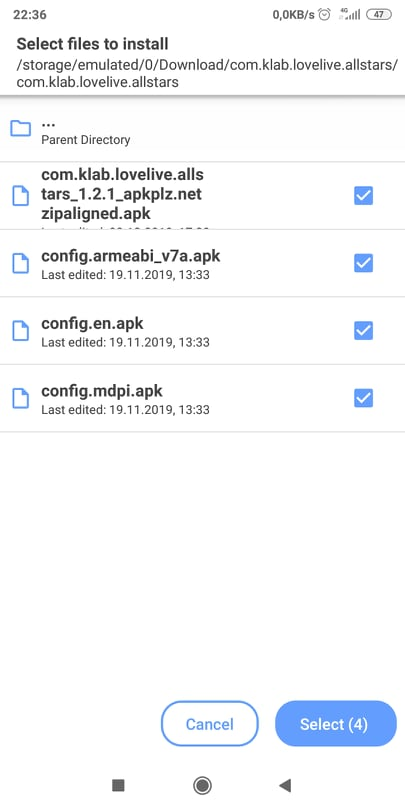
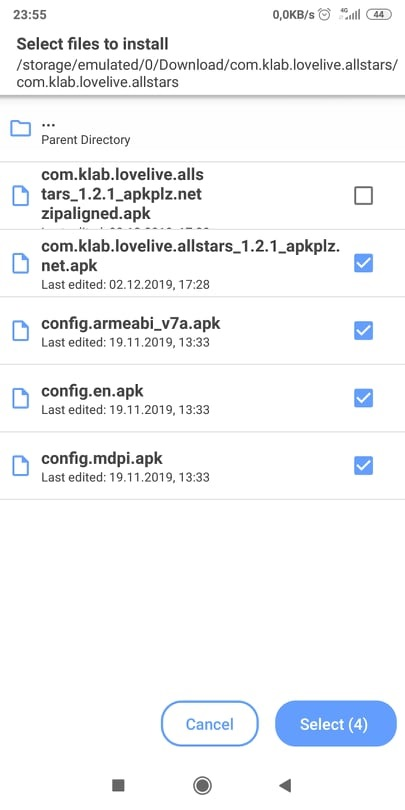
Rewrite the installing procedure of patched APK

diff --git a/readme.md b/readme.md
@@ -2,12 +2,13 @@
 
 ## Note: This guide has not been finished writing.
 
-## Installing Android-x86
+## Section 1: Installing Android-x86
 
 Updating
 
-## Make your own root-checker-less version of LLAS
+## Section 2: Make your own root-checker-less version of LLAS
 
+**If you have a patched APK of LLAS, you can skip all steps in this section**
 To play LLAS with key-binding on Android-x86, root access is required. However, LLAS has a built-in root-checker that prevents you from entering the game if your device has root access enabled.
 So firstly, we have to disable that root-checker.
 
@@ -16,7 +17,9 @@ So firstly, we have to disable that root-checker.
 ### Tools
 * Lastest Java and Java SE Development Kit.
 * [APK Easy Tool (Download the lastest beta version).](https://forum.xda-developers.com/android/software-hacking/tool-apk-easy-tool-v1-02-windows-gui-t3333960)
-* LLAS APKs bundle. You can copy your own from */data/app/com.klab.lovelive.allstars..../* from your Android device whichever has root access (recommended). You can also get one on apkplz.net (not recommended, but easier).
+* LLAS APKs bundle.
+	* Grab another Android device. Open Qooapp, download LLAS, but do not install it yet. Navigate to */sdcard/Android/data/com.qooapp.qoohelper/files/Download/* and grab all LLAS APK files. (safe, recommended)
+	* You can also get one on apkplz.net (not safe, not recommended, but easier).
 
 ### Steps
 #### Decompile the APK
@@ -53,15 +56,19 @@ There will be 2 APKs. We just need the one with *"Zipaligned"* at the end of its
 
 ![Recompiled ZipAlign](Images/5-RecompiledFolder.png)
 
-#### Installing the patched version of LLAS
+#### Install the original version of LLAS first
+
+##### In Android-x86, install LLAS normally from Qooapp. If you cannot do so, do all of below steps.
+**If you can install LLAS normally from Qooapp, you can skip steps from 4 to 7. But it is highly recommended that you should read them as well to acknowledge which files we will process.**
+
 1. Copy the remaining APK in the previous step to the directory where you extracted your LLAS bundle at the beginning.
 
 ![DeleteOriginalAPK](Images/6-DeleteOriginal.png)
 
 3. Copy this folder to somewhere which is accessible from Android-x86. You can compress and upload it to Google Drive, then download and extract it again from Android-x86.
 
-***Below process is rather advanced. You should not perform it unless you are familiar with browsing Android system files.
-Note: Installing the patched APK directly with Split APK Installer won't work.***
+***Below process is rather advanced. You should not perform it unless you are familiar with browsing Android system files.***
+***Note: Installing the patched APK directly with Split APK Installer won't work.***
 
 4. In Android-x86, install *Split APK Installer* from Play Store (I will use my Redmi 5 Plus to demonstrate this process).
 
@@ -71,14 +78,17 @@ Note: Installing the patched APK directly with Split APK Installer won't work.**
 
 ![SAIMainScreen](Images/8-SaiMainMenu.jpg)
 
-6. Navigate to the folder where you placed all the APKs of LLAS. Select the **OLD main apk**, then the **other minor APKs**, but **NOT** the patched main APK.
+6. Navigate to the folder where you placed all the APKs of LLAS. Select the **original/old main APK**, then the **other minor APKs**, but **NOT** the patched main APK. In other words, we are installing the **original version** of LLAS. Then tap *Select (4)* at the bottom corner of the screen.
 
 ![SelectAllAPKs](Images/9-SelectAllAPKs.jpg)
 
 7. Wait for the installation to complete.
-8. Open a root explorer. Copy your **patched main APK** to */data/app/com.klab.lovelive.allstars.../*
-8. In */data/app/com.klab.lovelive.allstars.../*, delete *base.apk*. Rename your newly copied APK to *base.apk*. *Chmod 644* it.
-9. You are done. But we have not finished yet.
+
+#### Replace original LLAS file with patched one
+
+1. Open a root explorer. Copy your **patched main APK** to */data/app/com.klab.lovelive.allstars.../*
+2. In */data/app/com.klab.lovelive.allstars.../*, delete *base.apk*. Rename your newly copied APK to *base.apk*. *Chmod 644* it.
+3. You are done. But we have not finished yet.
 
 ## Key-bindings
 
